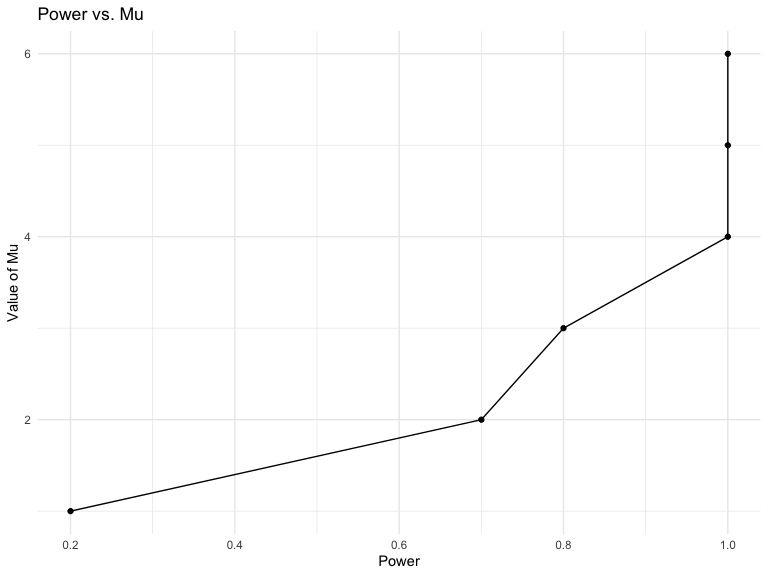
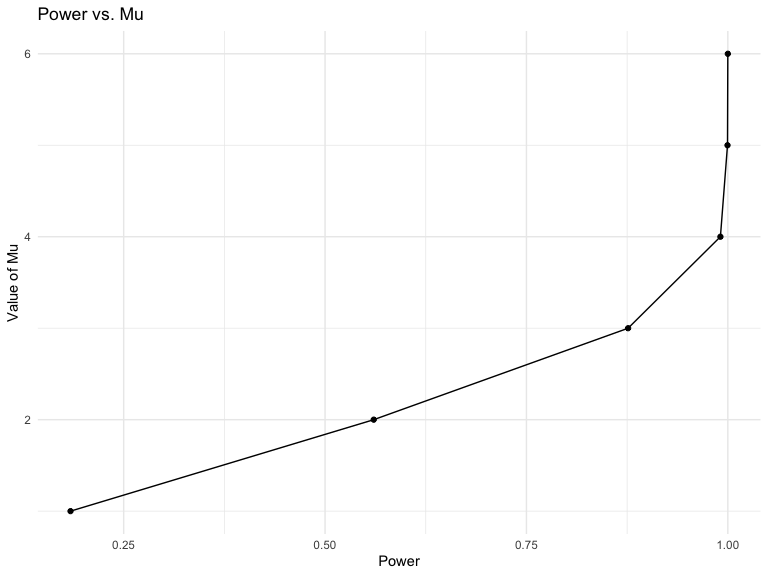
updated simulations to 5000

diff --git a/p8105_hw5_ar4459.md b/p8105_hw5_ar4459.md
@@ -345,6 +345,7 @@ plot
 ```
 
 <img src="p8105_hw5_ar4459_files/figure-gfm/unnamed-chunk-8-1.png" width="90%" />
+
 The spaghetti plot shows that the control group has lower values than
 the experimental group. The control group appreas to stay between -2.5
 and 5 while the experimental group increases over time. The mean value
@@ -387,12 +388,12 @@ sim_results
     ## # A tibble: 1 × 8
     ##   estimate statistic  p.value parameter conf.low conf.high method    alternative
     ##      <dbl>     <dbl>    <dbl>     <dbl>    <dbl>     <dbl> <chr>     <chr>      
-    ## 1     30.3      33.0 1.47e-24        29     28.4      32.2 One Samp… two.sided
+    ## 1     30.4      34.2 5.33e-25        29     28.6      32.2 One Samp… two.sided
 
 ``` r
 # Repeat the above for μ={1,2,3,4,5,6}
 mu = tibble(mu = c(1, 2, 3, 4, 5, 6))
-N = 20
+N = 5000
 
                        
 data_mu = c()
@@ -489,8 +490,7 @@ avg_mu__power_reject_plot =
   labs(
     x = "True Value of Mu",
     y = "Average Estimate of Mu",
-    title = "True Value vs Average Estimate of Mu 
-    (When Null Is Rejected)"
+    title = "True Value vs Average Estimate of Mu (When Null Is Rejected)"
   )
 
 avg_mu__power_reject_plot
@@ -498,9 +498,5 @@ avg_mu__power_reject_plot
 
 <img src="p8105_hw5_ar4459_files/figure-gfm/unnamed-chunk-14-1.png" width="90%" />
 According to the plot, the sample average of μ̂ across tests for which
-the null is rejected is approximately equal to the true value of μ. For
-example, when the true value of mu is 2, the average mu is 2.42. When
-the true value of 3, the average mu is 3.27. When the true value of mu
-is 4, the average mu is 4.23. When the true value of mu is 5, the
-average mu is 4.87. When the true mu is 6, the average mu is 6.42. The
-only exception is when mu is 1, the average mu is 2.18.
+the null is rejected is approximately equal to the true value of μ for
+all except when mu is 1.
